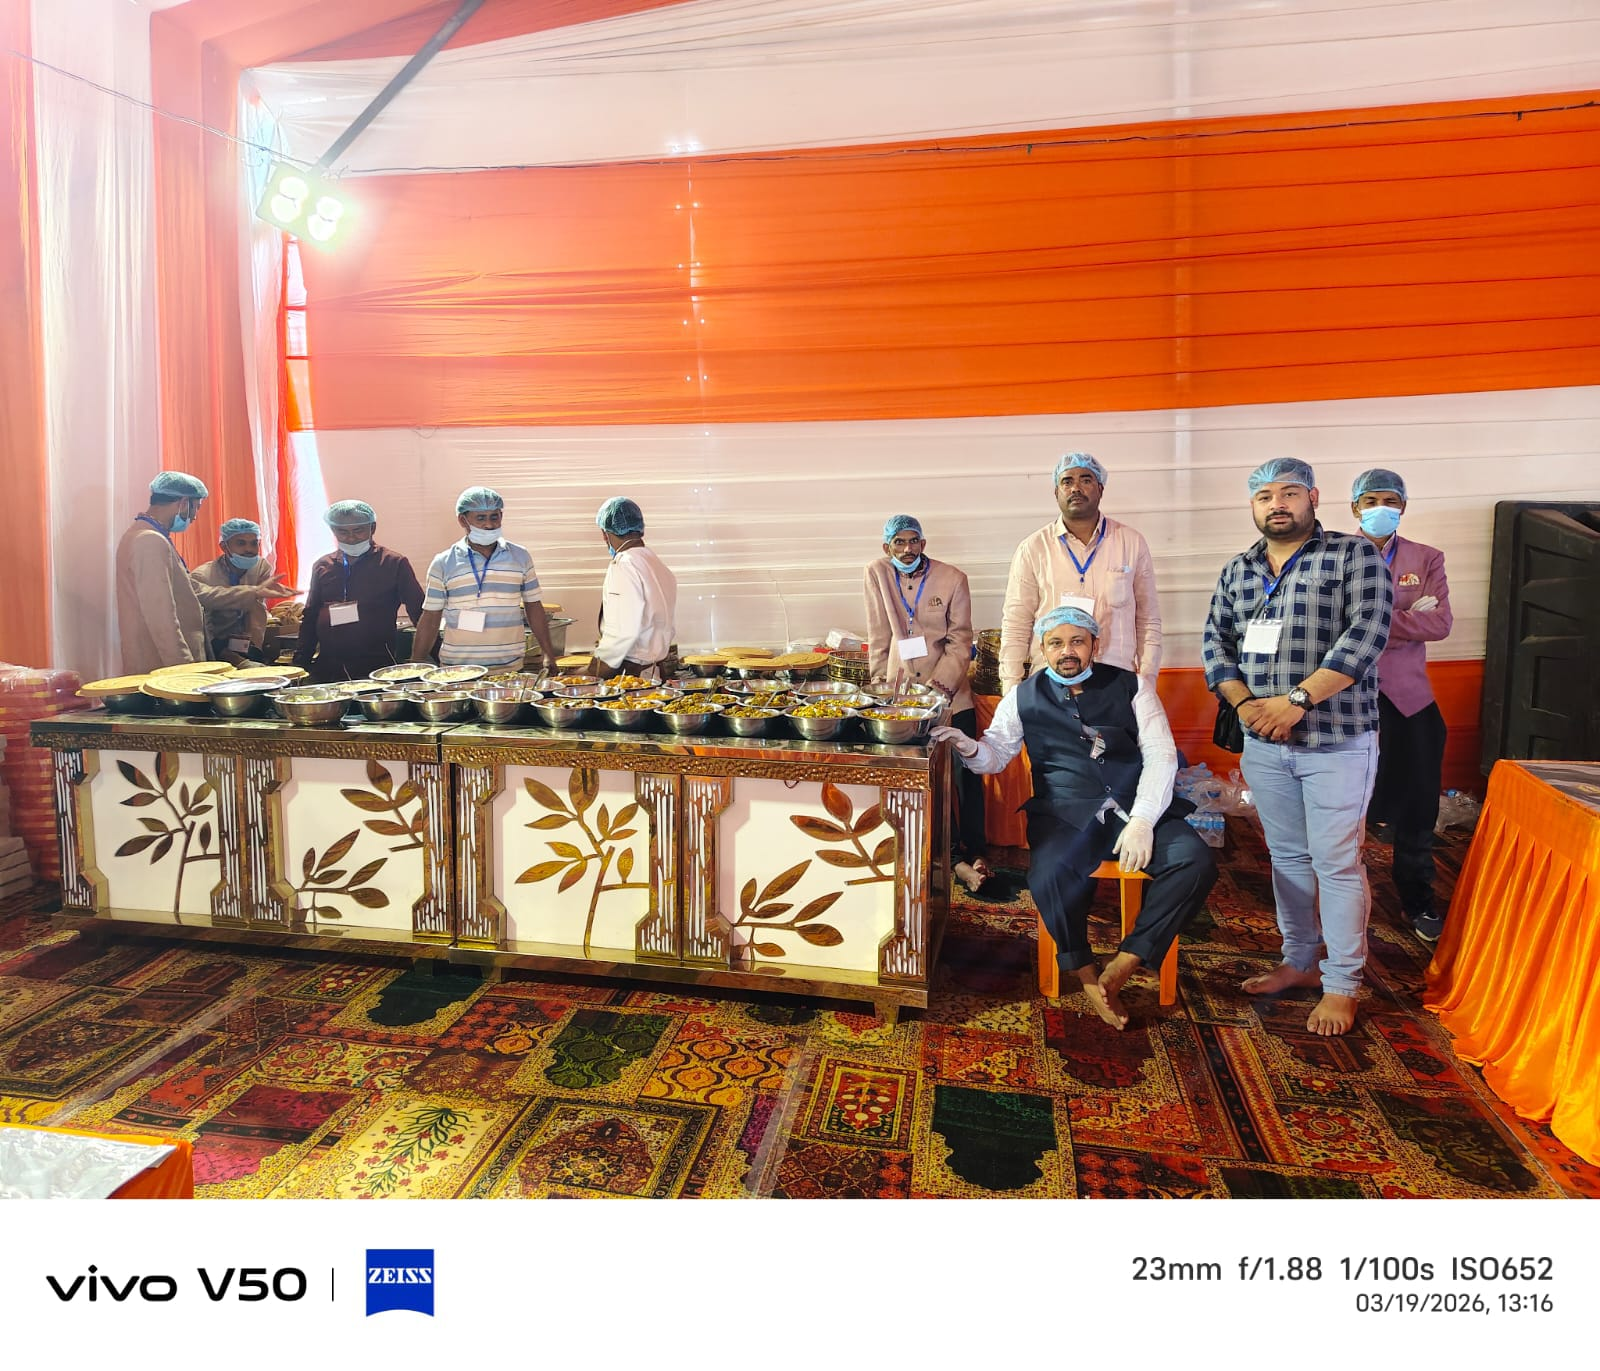
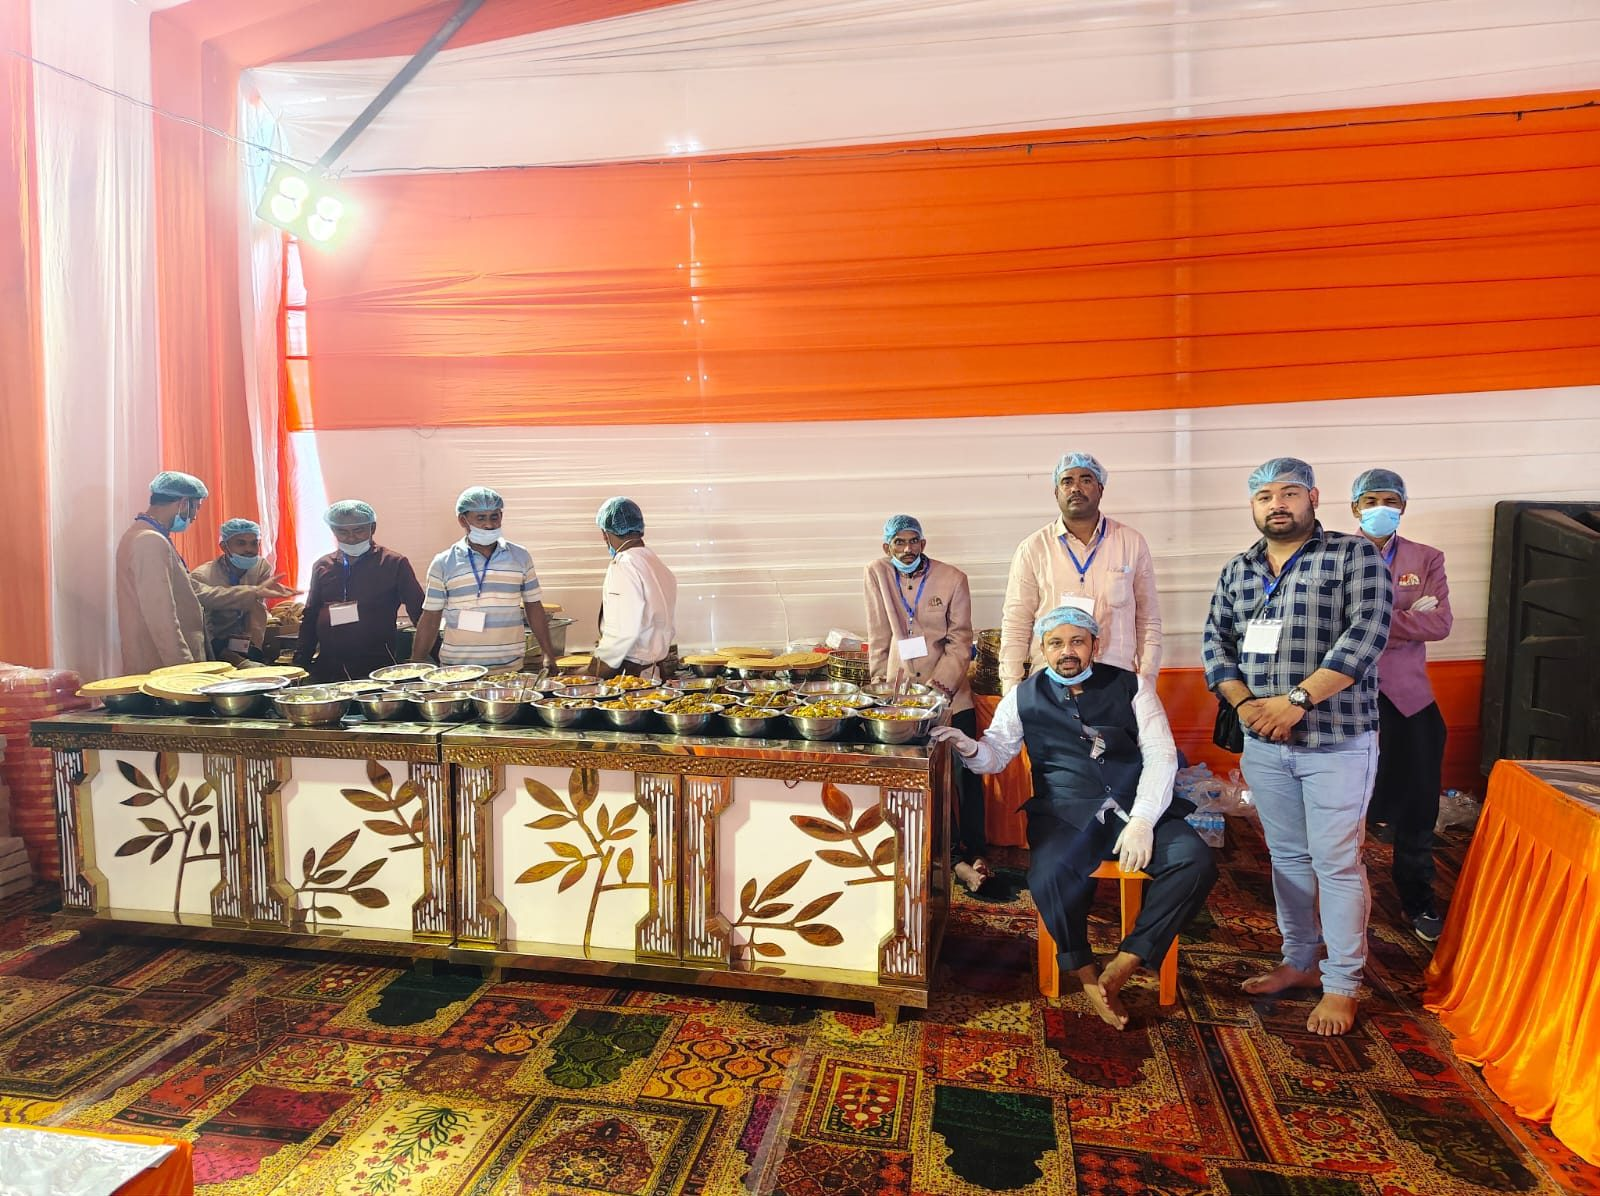
Update contact number, Our Honour cards, and crop carousel watermarks
- Phone +91-8299503034 replaced with +91-8299504889 across the top bar,
  contact bar, footer, and FAQ answer.
- Arun Yogiraj card: dropped the name, now shows only "South Businessman",
  with a new photo. Card title now renders conditionally so the single-
  label card has no empty line.
- Uday Bhan Kavaria retitled "Member of Parliament" -> "Ex - MLA Prayagraj"
  (Vinod Kumar Sonkar's identical title left untouched).
- Chandra Shekhar now has his own photo instead of sharing Satish Mahana's.
- Samiti order: Shiv Prakash moved between Keshav Maurya and Suresh Khanna.
- Cropped the vivo/ZEISS camera watermark strip off the 7 Ram Mandir
  carousel photos that carried it (rm4/8/9/10/11/12/13), detected by
  bottom-band brightness and cut exactly at the strip's top edge.

diff --git a/src/components/Personalities.jsx b/src/components/Personalities.jsx
@@ -14,11 +14,12 @@ import p11 from '../assets/p11.jpeg'
 import p12 from '../assets/p12.jpeg'
 import p13 from '../assets/p13.jpeg'
 import p14 from '../assets/p14.jpeg'
-import p15 from '../assets/p15.jpeg'
 import p16 from '../assets/p16.jpeg'
 import p19 from '../assets/p19.jpeg'
 import p18 from '../assets/p18.jpeg'
 import p17 from '../assets/p17.jpeg'
+import arunYogiraj from '../assets/arunyogiraj.jpeg'
+import chandraShekhar from '../assets/chandrashekhar.jpeg'
 
 
 
@@ -31,7 +32,7 @@ const personalities = [
   { img: p19, name: 'Nritya Gopal Das', title: 'Nyas Peeth', tag: <><FaLandmark /> </> },
   { img: p8, name: 'Brijesh Pathak', title: 'Deputy CM', tag: <><FaLandmark /> Political Leader</> },
   { img: p18, name: 'Satish Mahana', title: 'Speaker of the Legislative Assembly UP', tag: <><FaLandmark /> Political Leader</> },
-  { img: p18, name: 'Chandra Shekhar', title: 'Speaker of the Legislative Assembly UP', tag: <><FaLandmark /> Political Leader</> },
+  { img: chandraShekhar, name: 'Chandra Shekhar', title: 'Speaker of the Legislative Assembly UP', tag: <><FaLandmark /> Political Leader</> },
   { img: p6, name: 'Sunil Bansal', title: 'National General Secretary, Uttar Pradesh', tag: <><FaLandmark /> Political Leader</> },
   { img: p9, name: 'Dharam Pal', title: 'Uttar Pradesh Organization General Secretary', tag: <><FaLandmark /> Political Leader</> },
   { img: p7, name: 'Sanjay Seth', title: 'Minister of State for Defence, Central Government', tag: <><FaLandmark /> Political Leader</> },
@@ -40,10 +41,10 @@ const personalities = [
   { img: p13, name: 'Baldev Singh Aulakh', title: 'Minister of State Government', tag: <><FaLandmark /> Political Leader</> },
   { img: p12, name: 'Mahendra Singh', title: 'MP State In-charge', tag: <><FaLandmark /> Political Leader</> },
   { img: p14, name: 'Vinod Kumar Sonkar', title: 'Member of Parliament', tag: <><FaLandmark /> Political Leader</> },
-  { img: p14, name: 'Uday Bhan Kavaria', title: 'Member of Parliament', tag: <><FaLandmark /> Political Leader</> },
+  { img: p14, name: 'Uday Bhan Kavaria', title: 'Ex - MLA Prayagraj', tag: <><FaLandmark /> Political Leader</> },
   { img: p3, name: 'Vindu Dara Singh', title: 'Actor & Celebrity', tag: <><FaFilm /> Bollywood</> },
   { img: p4, name: 'Udit Narayan', title: 'Legendary Playback Singer', tag: <><FaMusic /> Music Icon</> },
-  { img: p15, name: 'Arun Yogiraj', title: 'South Businessman', tag: <><FaLandmark /> Businessman</> },
+  { img: arunYogiraj, name: 'South Businessman', title: '', tag: <><FaLandmark /> Businessman</> },
 ]
 
 export default function Personalities() {
@@ -72,13 +73,13 @@ export default function Personalities() {
                     <div className="pers-overlay-content">
                       <div className="pers-tag">{p.tag}</div>
                       <div className="pers-overlay-name">{p.name}</div>
-                      <div className="pers-overlay-title">{p.title}</div>
+                      {p.title && <div className="pers-overlay-title">{p.title}</div>}
                     </div>
                   </div>
                 </div>
                 <div className="pers-body">
                   <div className="pers-name">{p.name}</div>
-                  <div className="pers-title">{p.title}</div>
+                  {p.title && <div className="pers-title">{p.title}</div>}
                 </div>
               </div>
             </StaggerItem>

diff --git a/src/components/Faq.jsx b/src/components/Faq.jsx
@@ -7,7 +7,7 @@ const faqs = [
   { q: 'Can you provide Jain food options?', a: 'Yes. We cater to Jain dietary requirements with dedicated preparation. Please mention your requirements when booking and we will ensure complete compliance.' },
   { q: 'Do you offer tasting sessions?', a: 'Yes. We offer menu tasting sessions at our Kanpur office so you can experience our food quality before making a decision. Contact us to schedule.' },
   { q: 'What is your service area?', a: 'We are based in Kanpur, U.P. and serve events across Kanpur and surrounding areas. Contact us for events outside Kanpur to discuss logistics.' },
-  { q: 'How do I get a quote or book?', a: 'Call us at +91-9936485155 or +91-8299503034, WhatsApp at +91-9936485155, or fill out the booking form on this page. We respond within 24 hours.' },
+  { q: 'How do I get a quote or book?', a: 'Call us at +91-9936485155 or +91-8299504889, WhatsApp at +91-9936485155, or fill out the booking form on this page. We respond within 24 hours.' },
 ]
 
 export default function Faq({ onBookNow }) {

diff --git a/src/components/NationalEvents.jsx b/src/components/NationalEvents.jsx
@@ -62,8 +62,8 @@ const samitiCards = [
   { img: s8,  name: 'Lalji Tandon',         title: 'Former Governor of Bihar' },
   { img: s9,  name: 'Syed Shahnawaz Hussain', title: 'National Spokesperson & Central Election Committee Member, Bharatiya Janata Party' },
   { img: s10, name: 'Keshav Maurya',        title: 'Deputy Chief Minister, Uttar Pradesh' },
-  { img: s11, name: 'Suresh Khanna',        title: 'Cabinet Minister, Government of Uttar Pradesh' },
   { img: s12, name: 'Shiv Prakash',         title: 'National Joint General Secretary (Organisation), Bharatiya Janata Party' },
+  { img: s11, name: 'Suresh Khanna',        title: 'Cabinet Minister, Government of Uttar Pradesh' },
   { img: s13, name: 'Dr. Mahesh Sharma',    title: 'Former Union Minister of State, Government of India' },
   { img: s14, name: 'Dr. Mahesh Sharma',    title: 'Former Union Minister of State, Government of India' },
   { img: s15, name: 'Sushil Modi',          title: 'Former Deputy Chief Minister, Bihar' },

diff --git a/src/components/Footer.jsx b/src/components/Footer.jsx
@@ -48,8 +48,8 @@ export default function Footer() {
                 <a href="tel:+919936485155" style={{ color: 'rgba(255,255,255,.5)', textDecoration: 'none' }}>
                   +91-9936485155
                 </a><br />
-                <a href="tel:+918299503034" style={{ color: 'rgba(255,255,255,.5)', textDecoration: 'none' }}>
-                  +91-8299503034
+                <a href="tel:+918299504889" style={{ color: 'rgba(255,255,255,.5)', textDecoration: 'none' }}>
+                  +91-8299504889
                 </a>
               </span>
             </div>

diff --git a/src/components/ContactBar.jsx b/src/components/ContactBar.jsx
@@ -10,7 +10,7 @@ export default function ContactBar() {
             <div className="cb-label">Call Us</div>
             <div className="cb-val">
               <a href="tel:+919936485155">+91-9936485155</a><br />
-              <a href="tel:+918299503034">+91-8299503034</a><br />
+              <a href="tel:+918299504889">+91-8299504889</a><br />
               <a href="tel:+919336118498">+91-9336118498</a>
             </div>
           </div>

diff --git a/src/components/TopBar.jsx b/src/components/TopBar.jsx
@@ -7,7 +7,7 @@ export default function TopBar() {
         ☏ Call / WhatsApp:{' '}
         <a href="tel:+919936485155">+91-9936485155</a>
         &nbsp;|&nbsp;
-        <a href="tel:+918299503034">+91-8299503034</a>
+        <a href="tel:+918299504889">+91-8299504889</a>
         &nbsp;|&nbsp;
         <FaLeaf style={{ display: 'inline', verticalAlign: 'middle' }} />
         &nbsp;Only Vegetarian Food &nbsp;|&nbsp; Serving Kanpur Since 1982
